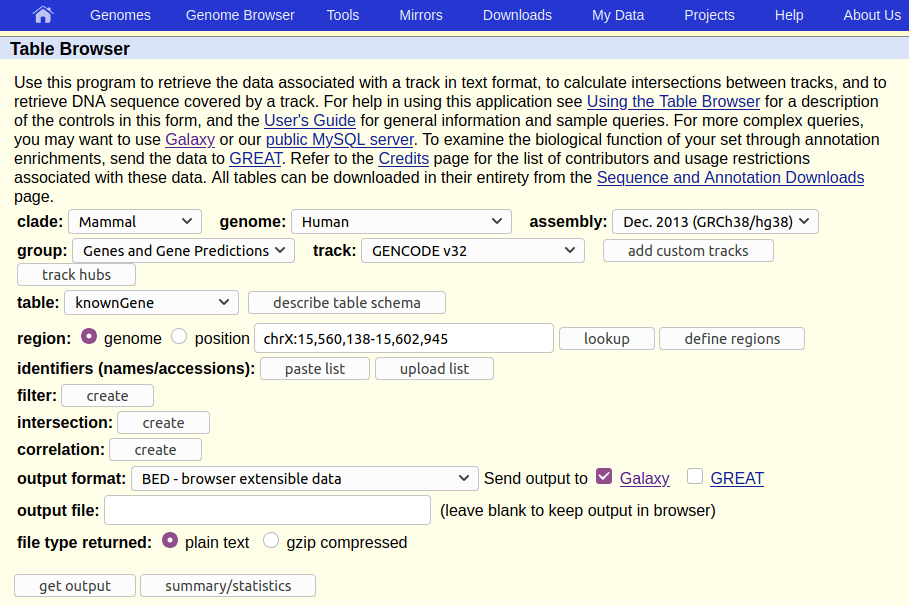
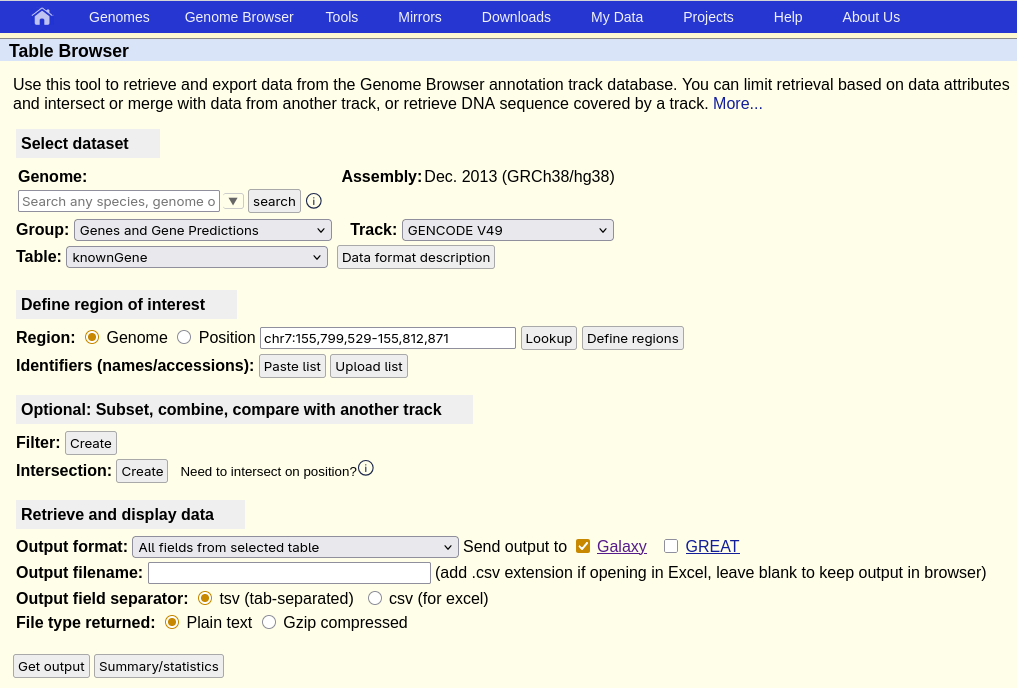
Update outdated parts of genomics intro and add a sort step
- Updates screenshots to reflect changes in UCSC's table browser and
  in Galaxy's edit dataset view
- Updates to GENCODE V49 instead of V41
- Removes outdated summary of what the gencode website's saying
- Fixes remaining mention of cat1 under its former name
- Adds a final sort step to obtain a coordinate-sorted bed dataset

Changed region(s): [[0.0, 0.0, 1.0, 0.9208], [0.6469, 0.5347, 0.8625, 0.5941], [0.0, 0.9505, 0.3388, 0.9802]]

diff --git a/topics/introduction/tutorials/galaxy-intro-strands/tutorial.md b/topics/introduction/tutorials/galaxy-intro-strands/tutorial.md
@@ -168,24 +168,24 @@ This will take you to the UCSC Table Browser:
 
 The [UCSC Table Browser](https://genome.ucsc.edu/cgi-bin/hgTables) provides access to all the data that is shown in the [UCSC Genome Browser](https://genome.ucsc.edu/cgi-bin/hgGateway) (see box below). If you are working on a species that UCSC supports (like human) then the Table Browser is a great place to get genomic data.
 
-The Table Browser has a daunting number of options. Fortunately, they are all set to commonly used defaults, greatly simplifying things, and most of the options are already set to what we want:
+The Table Browser has a daunting number of options. Fortunately, they are all set to commonly used defaults, greatly simplifying things, and most of the options are already set to what we want. In particular, the human genome at version hg38 is already preselected. If the human genome was not what we are interested in, or if we were interested in a different version of it, we could click on `Select dataset` near the top of the screen to change the default, but for our purpose we only have to verify that what is selected is:
 
-* **clade:** `Mammal`
-* **genome:** `Human`
-* **assembly:** `Dec. 2013 (GRCh38/hg38)`
-* **group:** `Genes and Gene Predictions`
-* **track:** `GENCODE v41`
+* **Assembly:** `Dec. 2013 (GRCh38/hg38)`
+* **Group:** `Genes and Gene Predictions`
+* **Track:** `GENCODE V49`
+* **Table:** `knownGene`
 
-**clade** and **genome** seem pretty clear.  **assembly** asks which version/definition of the human genome we want.  (Any will do for our question, but UCSC is suggesting `hg38`, which is also the most recent.)  **group** is set to `Genes and Gene Predictions` which sounds like what we want. So far so good.
+Here, **Assembly** asks which version/definition of the human genome we want.  (Any will do for our question, but UCSC is suggesting `hg38`, which is also an up to date one.)  **Group** is set to `Genes and Gene Predictions` which sounds like what we want. So far so good.
 
-**track** has a bewildering list of options. UCSC suggests `GENCODE v41`.  A web search leads us to the [GENCODE web site](https://www.gencodegenes.org/) which prominently states:
-
-> <warning-title>ALL GENCODE is different from GENCODE</warning-title>
-> **Warning** The Table browser only provides the most recent release of GENCODE which is updated several times per year. ALL GENCODE does not contain the same data as GENCODE and you should select the GENCODE track even if the version number is wrong.
-{: .warning}
+**Track** has a bewildering list of options. UCSC suggests `GENCODE V49`.  A web search leads us to the [GENCODE web site](https://www.gencodegenes.org/) which prominently states:
 
 >The goal of the GENCODE project is to identify and classify all gene features in the human and mouse genomes with high accuracy based on biological evidence...
 {: .quote}
+
+> <warning-title>ALL GENCODE is different from GENCODE</warning-title>
+> **Warning** Any recent GENCODE version, V49 or higher, will do for this tutorial though exact numbers calculated in some of the steps will depend on the exact version of the track. Do not, however, select any ALL GENCODE version or you will end up with entirely wrong input data!
+{: .warning}
+
 
 Time for a few more definitions.
 
@@ -206,7 +206,7 @@ Time for a few more definitions.
 
 The **track** option asks us which set of annotations do we want to get?  There are so many choices because annotation is the result of analysis and interpretation, and there are many ways to do this. (And in this case, many of the options aren't even genes or gene predictions.)
 
-GENCODE is "high-quality" and  "gene annotation." That sounds like a good thing to use.  Lets stay with the default: `GENCODE V41`.
+GENCODE is "high-quality" and  "gene annotation." That sounds like a good thing to use.  Lets stay with the default: `GENCODE V49` or whatever version is the latest GENCODE when you are doing this tutorial.
 
 So far we haven't changed *anything* from the defaults.  Lets change something.  The default  **region** is the whole genome, which can be done, but it's a lot of information. For this exercise lets use just one (small) chromosome.
 
@@ -220,7 +220,7 @@ So far we haven't changed *anything* from the defaults.  Lets change something. 
 >
 > 2. *Click* the **get output** button.
 >
->    And, that doesn't actually get us the output.  It sends us to a second UCSC page that asks us exactly what we want.
+>    And, that doesn't actually get us the output. It sends us to a second UCSC page that asks us exactly what we want.
 >
 >    ![UCSC Table Browser 2nd page](../../images/ucsc_tb_2nd_page_whole_gene.png)
 >
@@ -229,10 +229,10 @@ So far we haven't changed *anything* from the defaults.  Lets change something. 
 > 4. *Click* the **Send query to Galaxy** button at the bottom of the form.
 {: .hands_on}
 
-This returns us to Galaxy, first displaying a big green box (that's good!) and then returning us to the view we started with.  Except that we now have an item in our history, the dataset from UCSC.
+This returns us to Galaxy, first displaying a big green box (that's good!) and then returning us to the view we started with (if that doesn't happen, hit the *Back* button of your browser several/probably three times until you're back at the regular view of Galaxy). An item should now appear in your history, the dataset from UCSC.
 
 
-### History Item Status
+### History item status
 
 Watch your new history item.  It will go through three statuses before it's done.
 
@@ -471,12 +471,12 @@ However, before we rush off to publish our conclusions, let's
 
 What tool can we use to combine the two datasets into one?  Try *searching* for `combine` or `join` or `stack` in the tool search box.  You'll find lots of tools, but none of them do what we want to do. *Some times you just have to manually look through toolboxes to find what you need.*  Where should we look?  It's probably not **Get Data** or **Send Data**, but it could easily be in any of the next 4 toolboxes: **Lift-Over, Collection Operations, Text Manipulation, or Datamash**.
 
-It turns out that **Lift-Over** and **Collection Operations** are not what we want.  (But, take a look at them: if you are going to work with genomic data it won't take long before you'll need both.)
+It turns out that **Lift-Over** and **Collection Operations** are not what we want. (But, take a look at them: if you are going to work with genomic data it won't take long before you'll need both.)
 
 > <hands-on-title>Concatenate two datasets</hands-on-title>
 >
 > 1. *Open* the **Text Manipulation** toolbox.
-> 2. Near the top of the toolbox is **Concatenate datasets tail-to-head**. *Click* on it.  Lets try that tool.
+> 2. Near the top of the toolbox is **Concatenate multiple datasets or collections**. *Click* on it. Lets try that tool.
 > 3. {% tool [Concatenate multiple datasets or collections](cat1) %} with the following parameters:
 >   - {% icon param-files %} *"Concatenate Dataset"*: `Overlapping reverse genes`.
 >   - *"Dataset*"
@@ -484,7 +484,7 @@ It turns out that **Lift-Over** and **Collection Operations** are not what we wa
 >
 >         This adds a second dataset pull-down menu to the form.
 >
->      - In *"1: Dataset"*
+>      - In *"1: Dataset"*:
 >         - {% icon param-files %} *"Select"*: `Overlapping forward genes` as the second dataset.
 > 4. *Click* **Run Tool**
 > 5. *Rename* the resulting dataset something informative like `Overlapping genes`
@@ -492,19 +492,49 @@ It turns out that **Lift-Over** and **Collection Operations** are not what we wa
 
 Once the concatenate operation is finished, preview the dataset in your history panel.  Does it have the expected number of genes in it?  If not, see if you can figure out what happened.
 
+As the name of the tool suggests, it has simply taken the second input and glued it to the end of the first input to form the new dataset. Now all reverse-strand genes are listed before the forward-strand genes, independent of their genomic location. While that's not necessarily a problem, it may be nicer to sort the genes back into the position-based order we originally obtained them in.
+
+> <hands-on-title>Sort the overlapping genes by genomic position</hands-on-title>
+>
+> 1. {% tool [Sort](toolshed.g2.bx.psu.edu/repos/bgruening/text_processing/tp_sort_header_tool/9.5+galaxy3) %} data in ascending or descending order with the following parameters:
+>   - {% icon param-file %} *"Sort Query"*: `Overlapping genes`.
+>   - {% icon param-repeat %} *"Column selections"*:
+>      - In *"1: Column selections"*:
+>         - *"Sort on column"*: `Column 1`
+>         - *"in"*: `Ascending order`
+>         - *"using sort flavor"*: `Natural/Version sort (-V)`
+>
+>      - Click on {% icon param-repeat %} *"Insert Column selections"*
+>      - In *"2: Column selections"*:
+>         - *"Sort on column"*: `Column 2`
+>         - *"in"*: `Ascending order`
+>         - *"using sort flavor"*: `Fast numeric sort (-n)`
+>
+>      - Click on {% icon param-repeat %} *"Insert Column selections"*
+>      - In *"3: Column selections"*:
+>         - *"Sort on column"*: `Column 3`
+>         - *"in"*: `Ascending order`
+>         - *"using sort flavor"*: `Fast numeric sort (-n)`
+>
+> 2. *Click* **Run Tool**
+> 3. *Rename* the resulting dataset to, for example, `Overlapping genes sorted`
+{: .hands_on}
+
+We now have a new dataset with the genes sorted first by chromosome (which is not strictly necessary in our case because we know all genes are from the same chromosome chr22, but is important, of course, in the general case), then by start position on the chromosome and, finally, by end position (in case that's needed to break ties).
+
 ## Visualize the overlapping genes
 
 Galaxy knows about several visualization options for lots of different dataset types, including BED.  Whenever you preview a dataset in the history panel, Galaxy provides links to these visualizations.  For BED files (which is the format we have), options include **IGB, IGV,** and **UCSC main.**  IGB and IGV are widely used desktop applications and eventually you may want to install one or both of them.  For now, let's visualize the data at UCSC, using the UCSC *Genome* Browser.
 
 > <hands-on-title>Display data in Genome Browser</hands-on-title>
 >
-> 1. Click on your `Overlapping genes` dataset in your history panel. This will show the dataset preview in the history panel.
+> 1. Click on your `Overlapping genes sorted` dataset in your history panel. This will show the dataset preview in the history panel.
 > 2. Click to expand the dataset, if it isn't already, so that you can see the dataset metadata and additional actions like Visualize.
 > 3. Click on the {% icon galaxy-barchart %} (**Visualize**) icon
 > 4. Click on the **display at UCSC (main)** link that appears in the blue box at the top of the screen.
 >    ![visualisation options are shown in Galaxy's middle panel]({% link topics/introduction/images/101_displayucsc.png %})
 >
-> This will launch a new window, showing UCSC's Genome Browser with our dataset shown right at the top.  UCSC figures out that our first overlapping gene is ~11 million bases into chromosome 22, and it has landed us there.
+> Possibly after some delay, this will launch a new window, showing UCSC's Genome Browser with our dataset shown right at the top.  UCSC figures out that our first overlapping gene is ~11 million bases into chromosome 22, and it has landed us there.
 >
 >   ![UCSC Genome Browser](../../images/ucsc_gb_genes_strands_overlapping.png)
 {: .hands_on}
@@ -577,7 +607,7 @@ We want to run the same analysis, but this time only look for overlaps that happ
 
 > <hands-on-title>Create a new history that contains some data from current history</hands-on-title>
 >
-> 1. *Click* on the **gear icon** at the top of the current history.
+> 1. *Click* on {% icon galaxy-history-options %} **History options** at the top of the history panel.
 > 2. *Select* the **Copy Datasets** option from the pull down menu.  This launches the copy datasets form.
 > 3. Under **Source History:**, *select* the dataset(s) you want to copy to the new history.
 >    - In our case, we only want the `Genes chr22` dataset.
@@ -587,14 +617,14 @@ We want to run the same analysis, but this time only look for overlaps that happ
 > 5. *Click* the **Copy History Items** button to create your new history.
 >    - This creates a new history (with the copied dataset) and throws up a green box saying:
 >      "1 dataset copied to 1 history: `name you gave your new history`."
-> 6. The history name is a link.  *Click* on it.
+> 6. The history name is a link. *Click* on it.
 {: .hands_on}
 
 ## Get the exon data
 
-And your new history appears in the history panel with the copied *genes* dataset.  What we need is *exons.* How can we get the exon information?  There are two relatively easy ways to get this information, one of which will be very familiar.
+And your new history appears in the history panel with the copied *genes* dataset. What we need is *exons*. How can we get the exon information? There are two relatively easy ways to get this information, one of which will be very familiar.
 
-The first method involves going back to the UCSC Table Browser.  Everything on the first form would stay the same: We still want human, hg38, GENCODE v41, and just `chr22`. The second form is what changes.  Instead of getting the **Whole Gene**, we need to retrieve the **Coding Exons** only.
+The first method involves going back to the UCSC Table Browser.  Everything on the first form would stay the same: We still want human, hg38, GENCODE v41, and just `chr22`. The second form is what changes. Instead of getting the **Whole Gene**, we need to retrieve the **Coding Exons** only.
 
 The second method is to use the **Gene BED To Exon/Intron/Codon BED expander** tool in the **Operate on Genomic Intervals** toolbox to extract the exon information from the genes BED file we already have. (*Of course!* you say.  Umm, there is no way that you should have known that you already had this information in the genes file, or that this tool existed.)
 